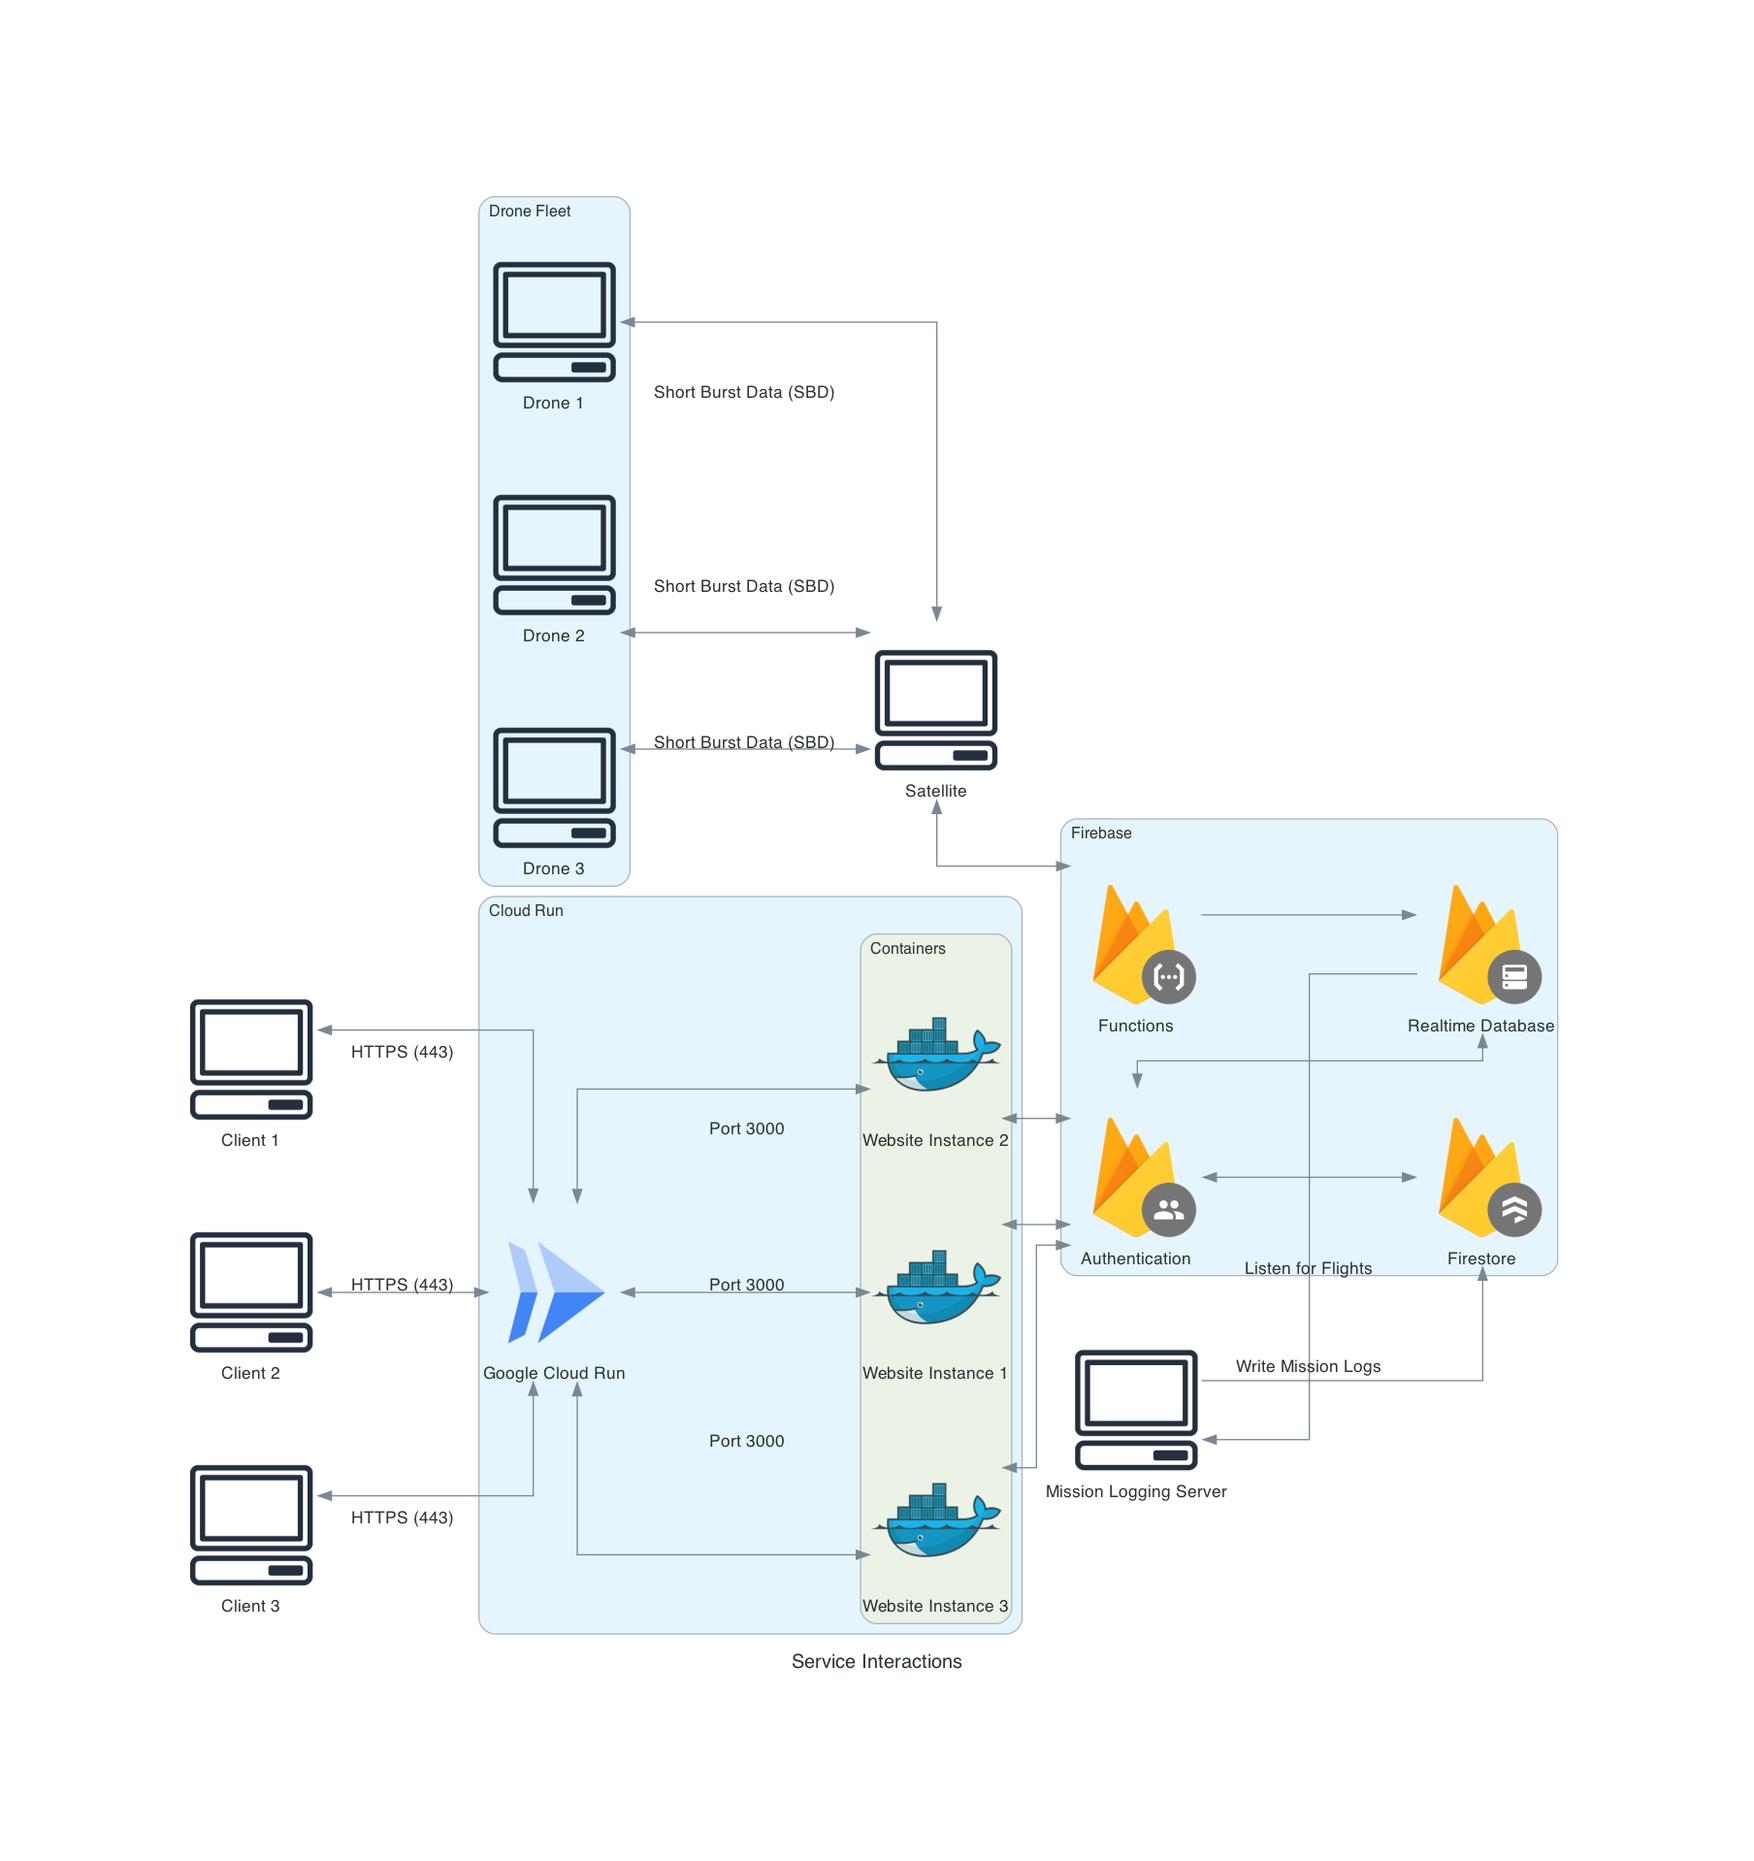
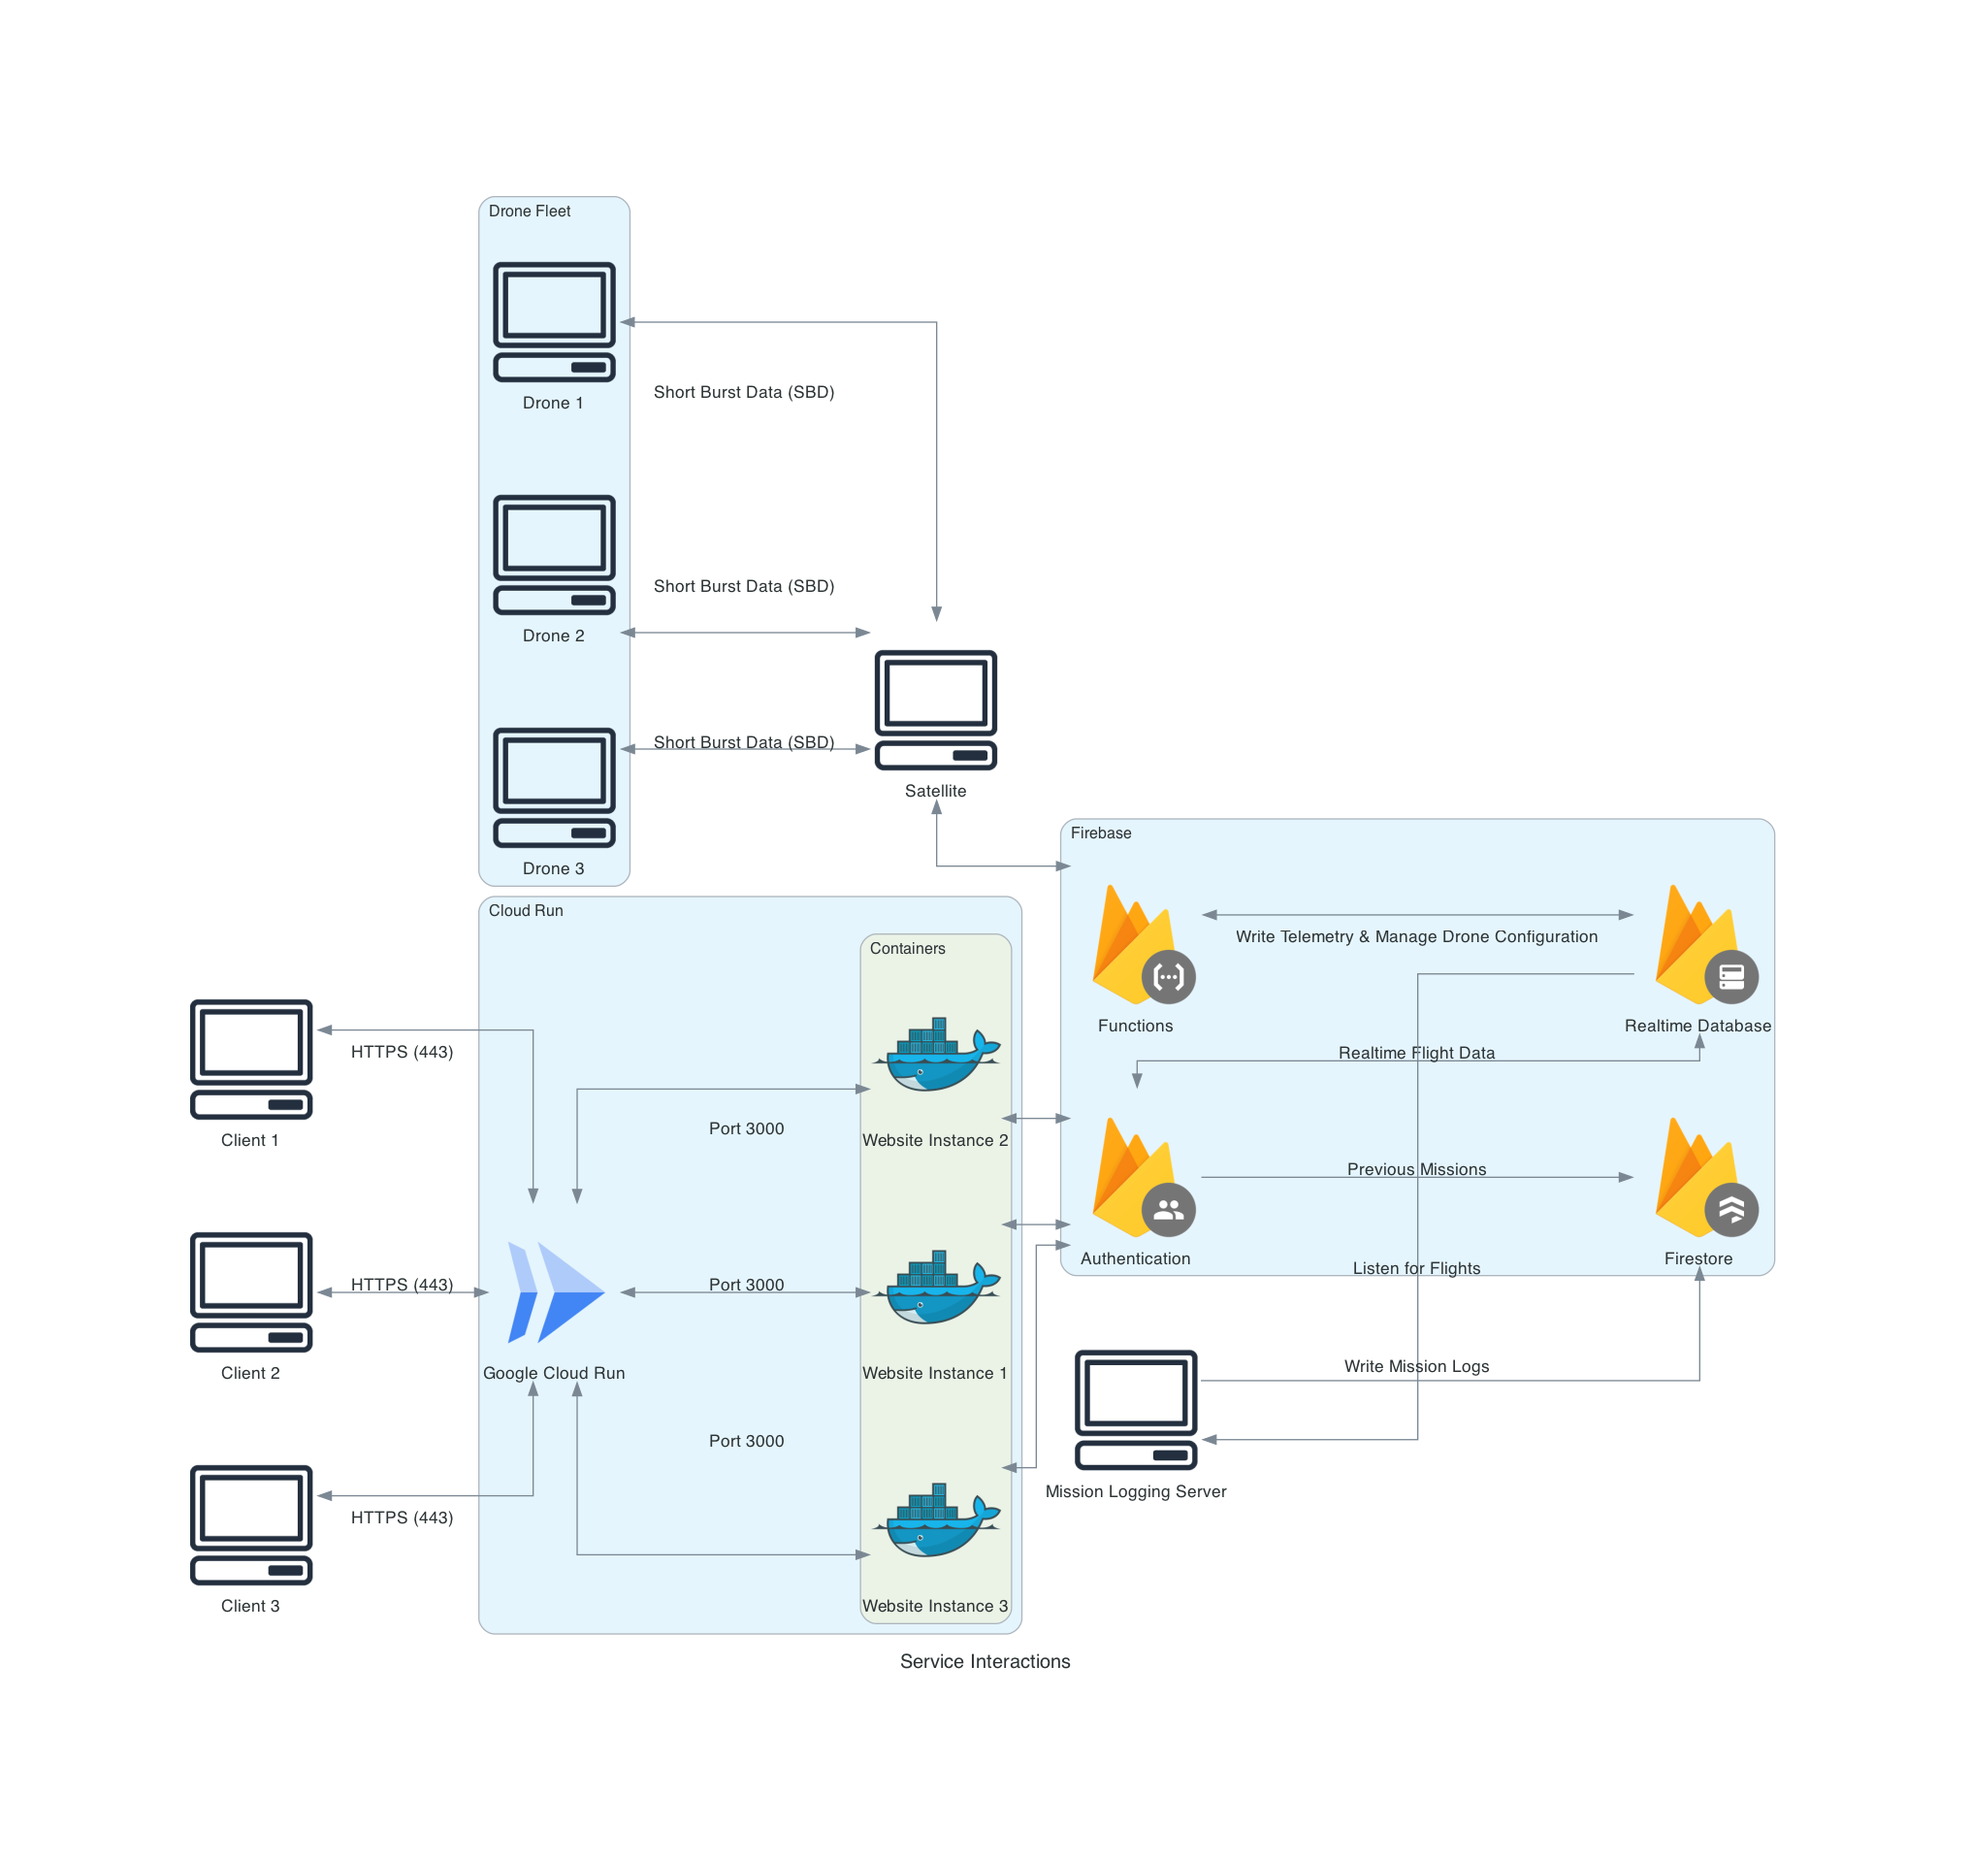
update

Changed region(s): [[0.0929, 0.0923, 0.7743, 0.8921], [0.7743, 0.4307, 0.8982, 0.7075], [0.6814, 0.5537, 0.7434, 0.5845]]

diff --git a/Assets/Diagram Generation/flow.py b/Assets/Diagram Generation/flow.py
@@ -35,7 +35,7 @@ with Diagram("Service Interactions", show=False):
     
     satellite >> Edge() << functions
     
-    functions >> Edge() >> realtimeDB
+    functions >> Edge(label="Write Telemetry & Manage Drone Configuration") << realtimeDB
     
     server = Client("Mission Logging Server")
     
@@ -58,8 +58,8 @@ with Diagram("Service Interactions", show=False):
         container2 >> Edge() << authentication
         container3 >> Edge() << authentication
         
-        authentication >> Edge() << firestore
-        authentication >> Edge() << realtimeDB
+        authentication >> Edge(label="Previous Missions") >> firestore
+        authentication >> Edge(label="Realtime Flight Data") << realtimeDB
         
         
         
